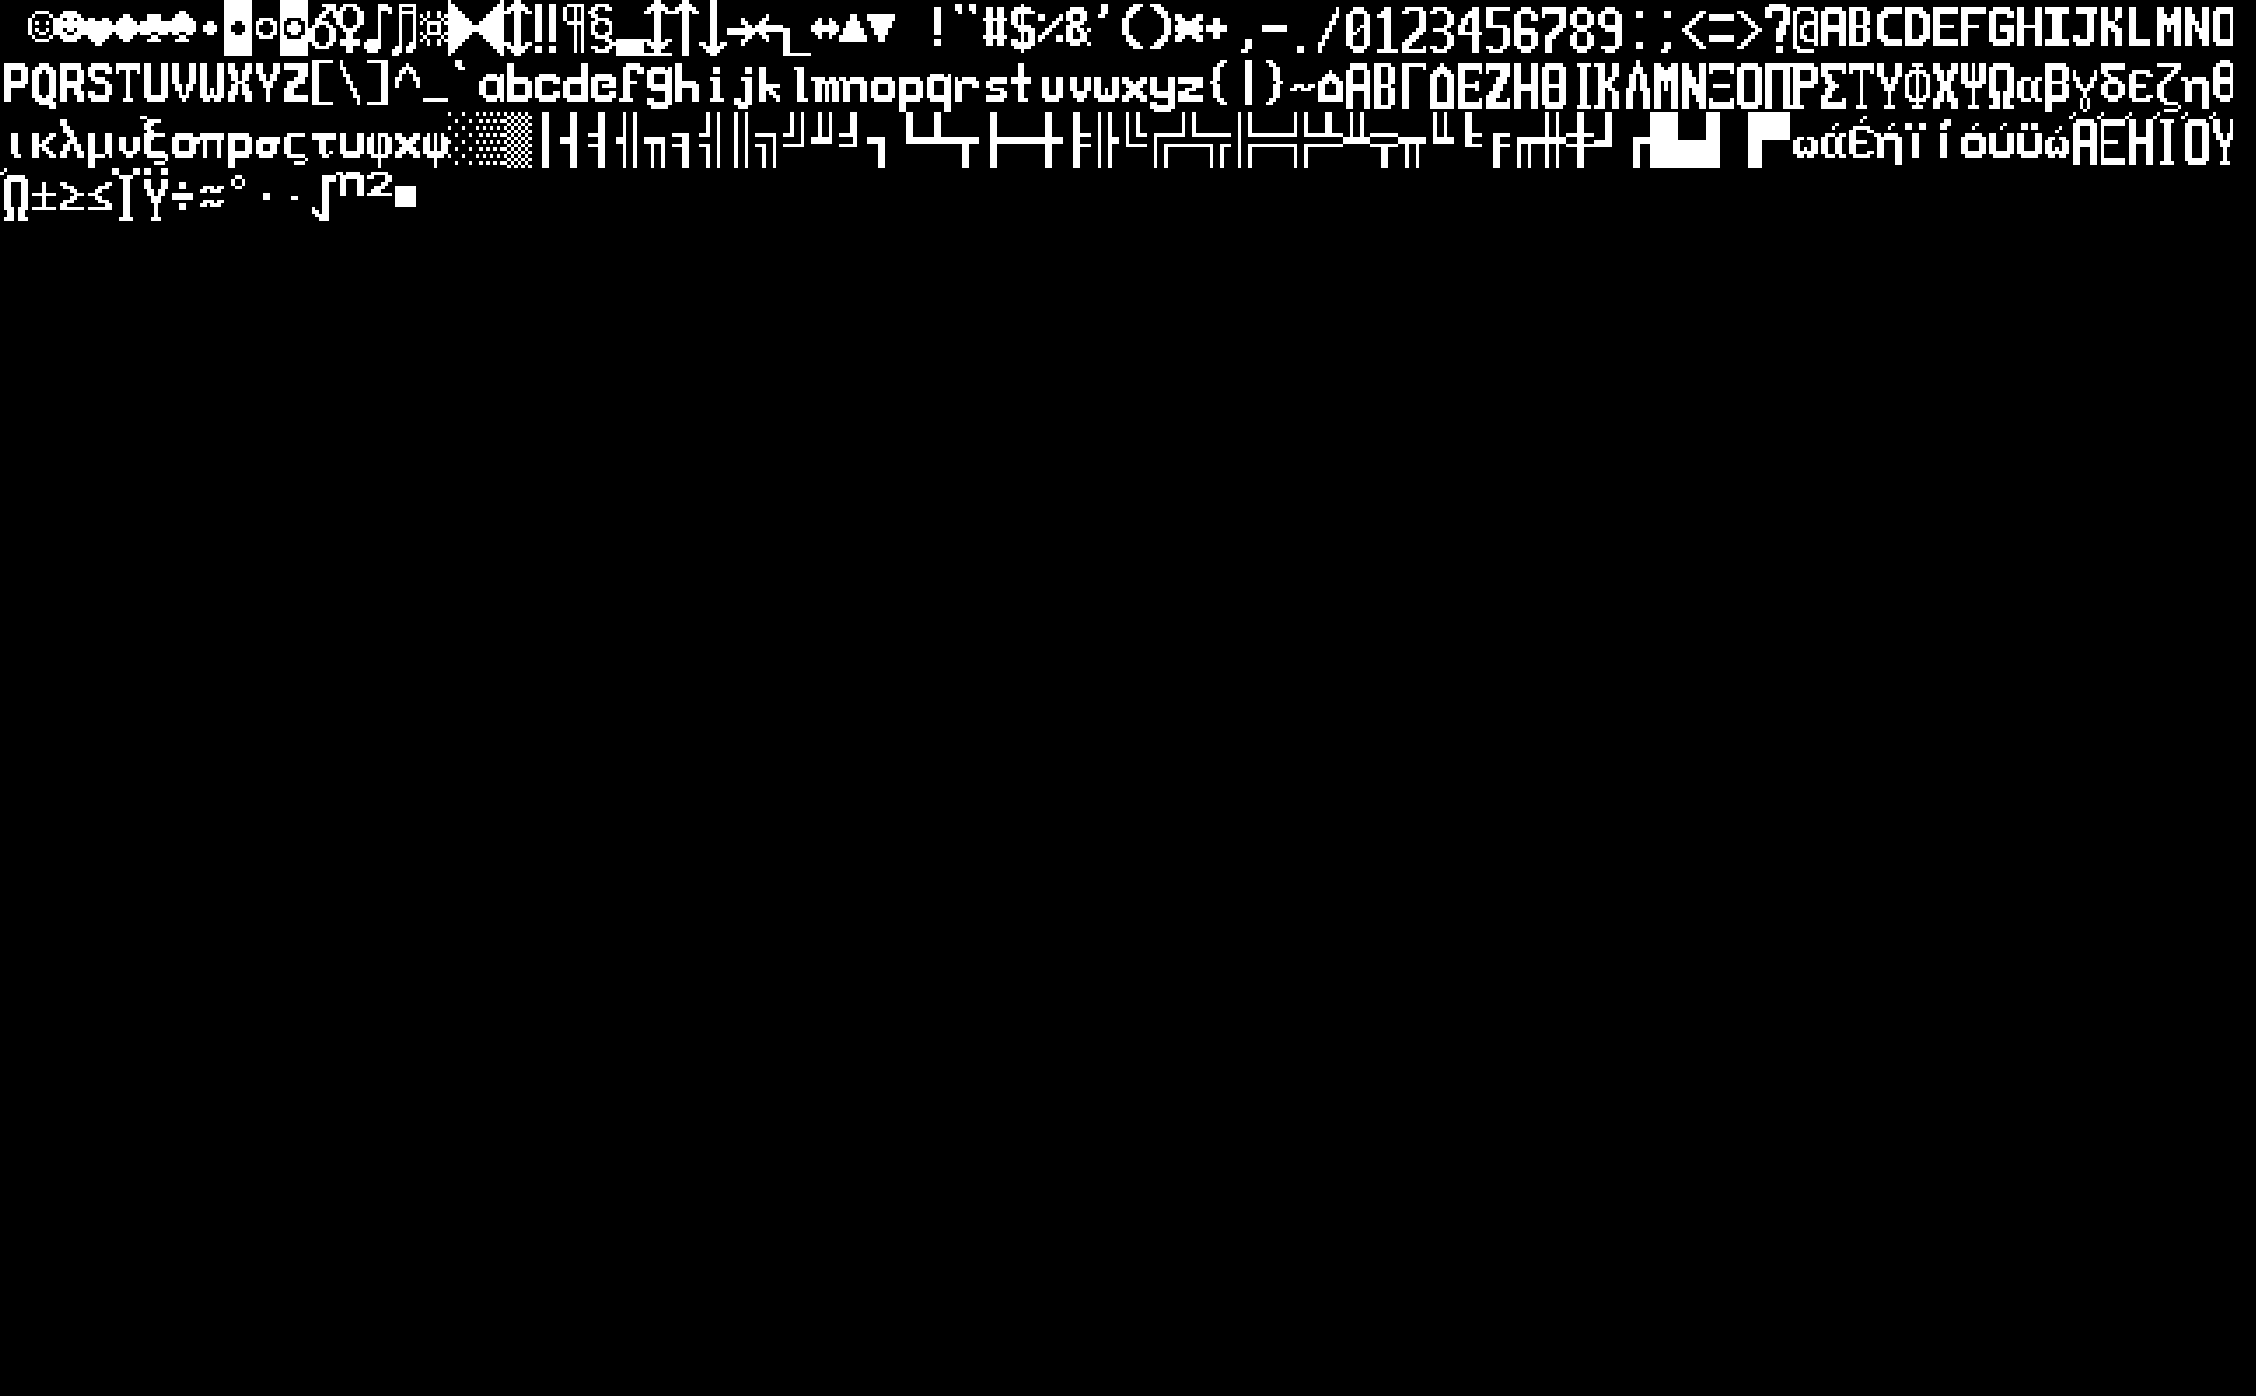
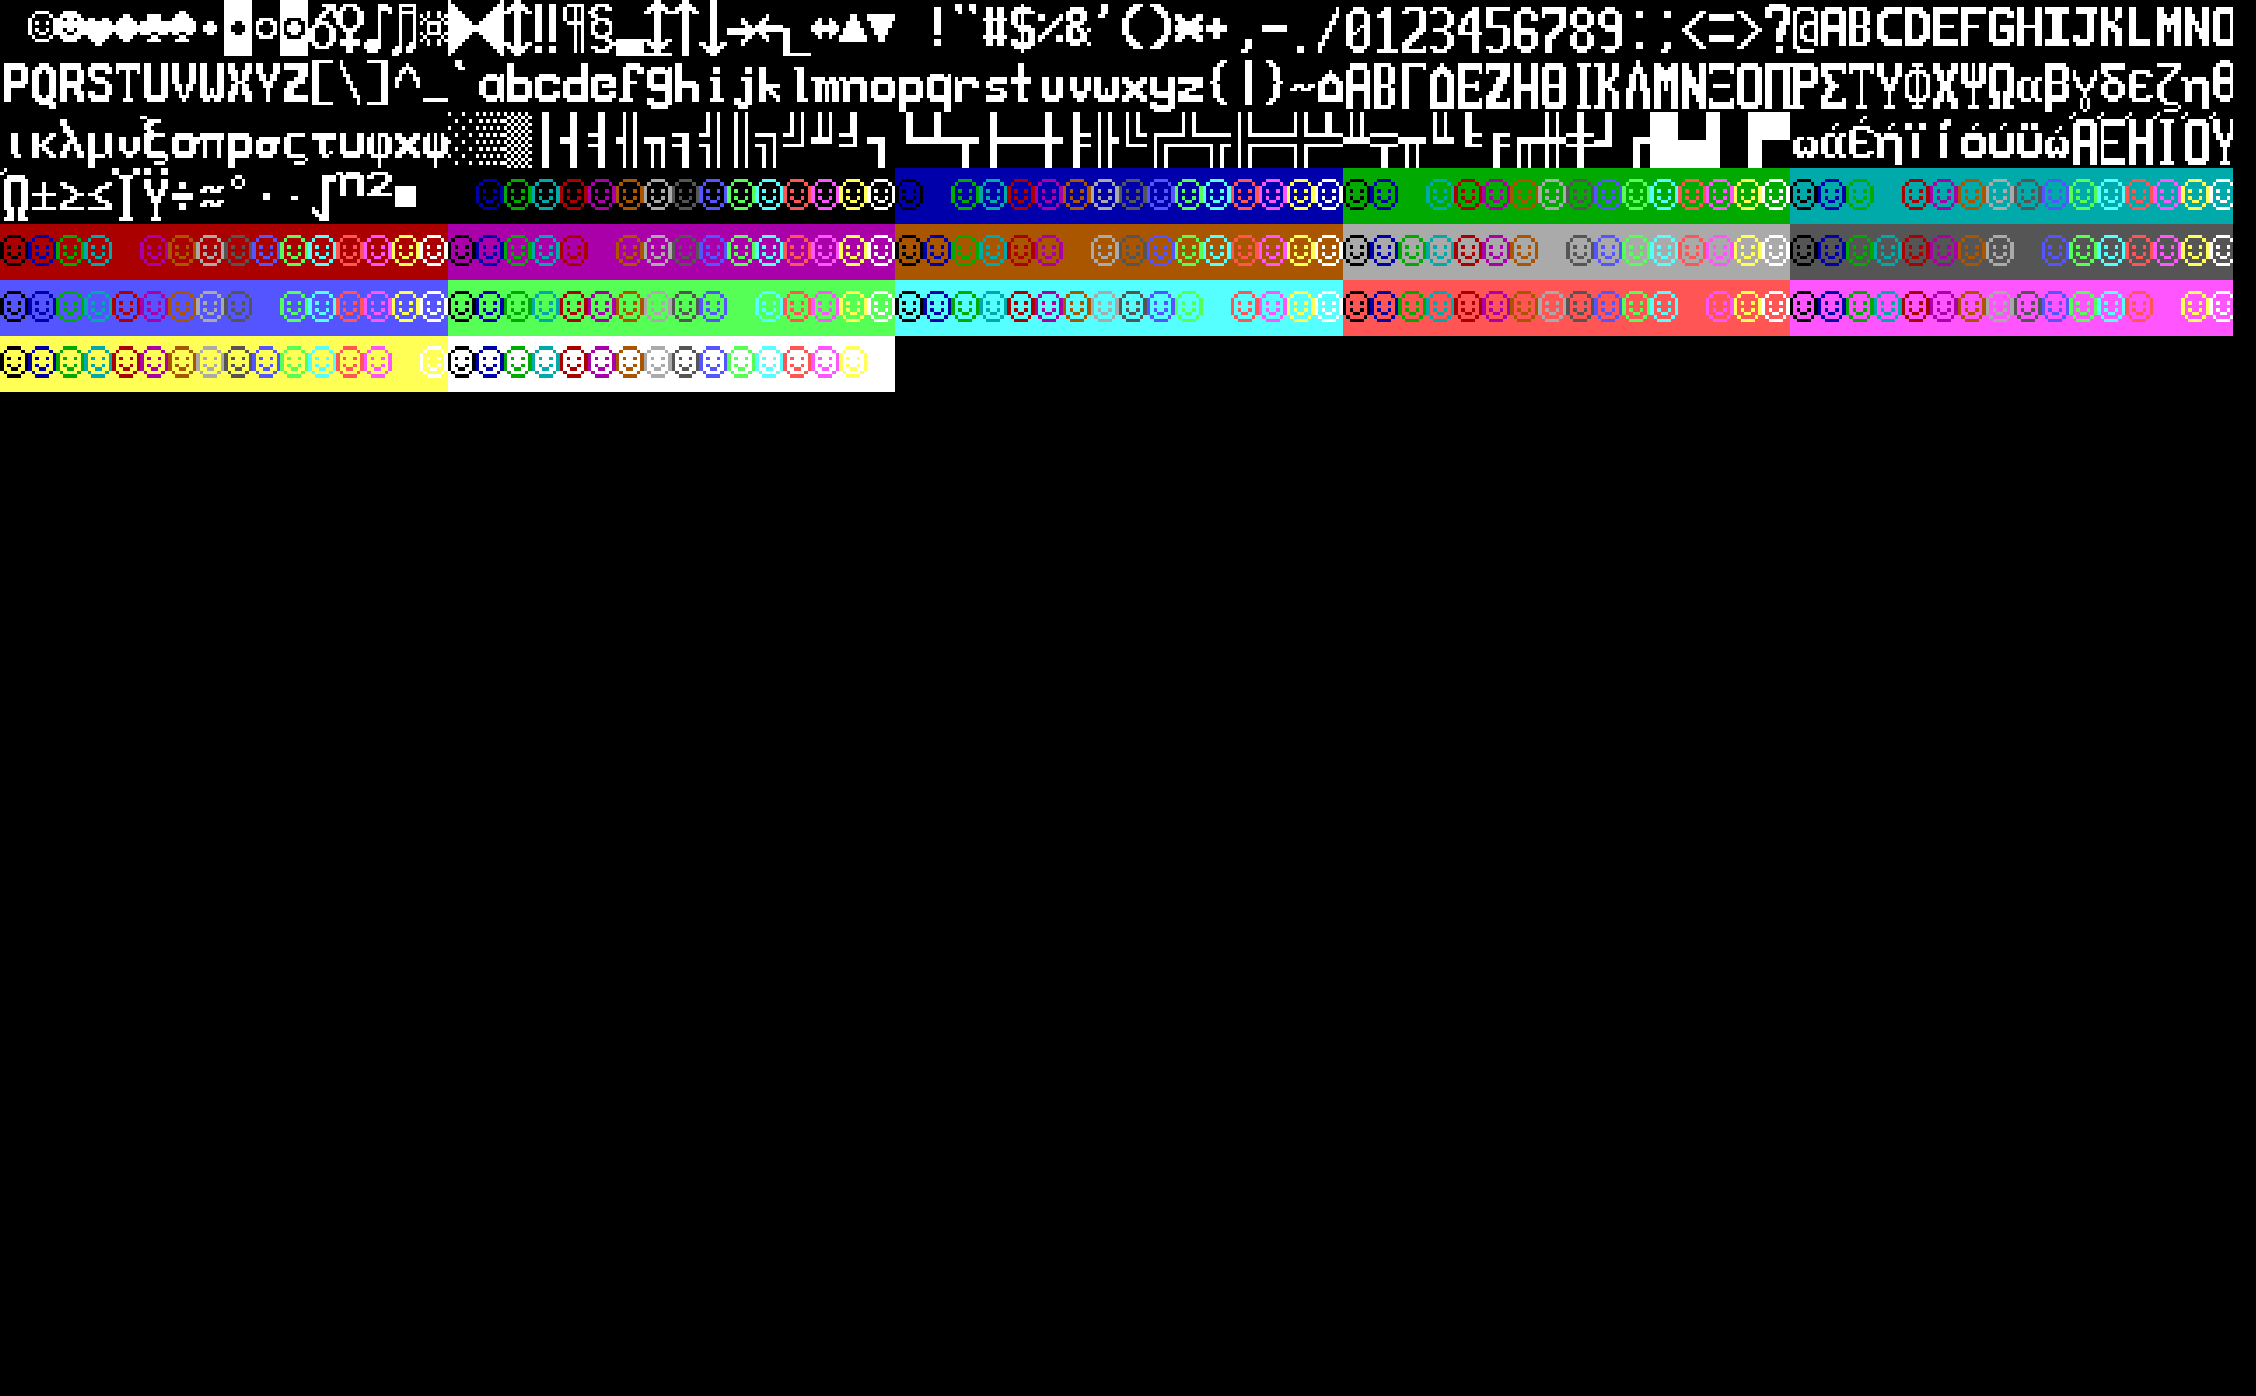
better CPU usage and color showcase

Changed region(s): [[0.0, 0.1232, 0.9929, 0.308]]

diff --git a/src/emulator/display.rs b/src/emulator/display.rs
@@ -1,4 +1,6 @@
-use std::pin::Pin;
+use std::sync::atomic::Ordering;
+use std::sync::Arc;
+use std::{pin::Pin, sync::atomic::AtomicBool};
 use std::str::FromStr;
 
 use async_std::task::JoinHandle;
@@ -31,12 +33,14 @@ const COLORS: [u32; 16] = [
 pub struct TextBuffer {
     chars: Pin<Box<[u8; 1 << 11]>>,
     modifiers: Pin<Box<[u8; 1 << 11]>>,
+    modified: Arc<AtomicBool>,
     handle: JoinHandle<()>,
 }
 
-struct BufferPtr{
+struct BufferPtr {
     chars: *const [u8; 1 << 11],
     modifiers: *const [u8; 1 << 11],
+    modified: Arc<AtomicBool>,
 }
 
 unsafe impl Send for BufferPtr {}
@@ -45,13 +49,15 @@ impl TextBuffer {
     pub fn spawn() -> TextBuffer {
         let chars = Box::pin([0; 1 << 11]);
         let modifiers = Box::pin([0; 1 << 11]);
+        let modified = Arc::new(AtomicBool::new(true));
 
         let handle = async_std::task::spawn(run_handle(BufferPtr{
             chars: &*chars,
             modifiers: &*modifiers,
+            modified: modified.clone(),
         }));
 
-        TextBuffer { chars, modifiers, handle }
+        TextBuffer { chars, modifiers, modified, handle }
     }
 
     pub fn get(&self, addr: u16) -> u8 {
@@ -65,7 +71,7 @@ impl TextBuffer {
     }
 
     pub fn set(&mut self, addr: u16, data: u8) {
-        println!("setting {addr} to {data}");
+        self.modified.store(true, Ordering::Relaxed);
 
         if addr % 2 == 0 {
             let sub_index = (addr >> 1) as usize;
@@ -90,7 +96,7 @@ async fn run_handle(buffer: BufferPtr) {
     
     let mut window =
         minifb::Window::new("f8ful", WIDTH, HEIGHT, opts).expect("should be able to create window");
-    // match the VGA standard
+    // the actual VGA standard is 75, but this function is very resource intensive and should not run constantly
     window.set_target_fps(75);
     if let Some(icon) = get_icon() {
         window.set_icon(icon);
@@ -99,35 +105,39 @@ async fn run_handle(buffer: BufferPtr) {
     let mut fb = [0x00000000; WIDTH * HEIGHT];
 
     while window.is_open() {
-        for y in 0..HEIGHT {
-            for x in 0..WIDTH {
-                let font_x = x % 8;
-                let font_y = y % 16;
+        if buffer.modified.load(Ordering::Relaxed) {
+            buffer.modified.store(false, Ordering::Relaxed);
+            for y in 0..HEIGHT {
+                for x in 0..WIDTH {
+                    let font_x = x % 8;
+                    let font_y = y % 16;
 
-                let char_x = x / 8;
-                let char_y = y / 16;
-                let char_idx = char_x + char_y * WIDTH / 8;
-                let (character, modifier) = unsafe {(
-                    (*buffer.chars)[char_idx], 
-                    (*buffer.modifiers)[char_idx]
-                )};
+                    let char_x = x / 8;
+                    let char_y = y / 16;
+                    let char_idx = char_x + char_y * WIDTH / 8;
+                    let (character, modifier) = unsafe {(
+                        (*buffer.chars)[char_idx], 
+                        (*buffer.modifiers)[char_idx]
+                    )};
 
-                let font_addr = ((character as usize) << 4) + font_y;
-                let lit = FONT[font_addr] & (1 << (7 - font_x)) > 0;
+                    let font_addr = ((character as usize) << 4) + font_y;
+                    let lit = FONT[font_addr] & (1 << (7 - font_x)) > 0;
 
-                // This part isn't part of the actual CPU,
-                // the real value will be transmitted via VGA instead of stored.
-                let fg = COLORS[(modifier & 0xf) as usize];
-                let bg = COLORS[(modifier >> 4) as usize];
-                fb[x + y * WIDTH] = if lit { fg } else { bg };
+                    // This part isn't part of the actual CPU,
+                    // the real value will be transmitted via VGA instead of stored.
+                    let fg = COLORS[(modifier & 0xf) as usize];
+                    let bg = COLORS[(modifier >> 4) as usize];
+                    fb[x + y * WIDTH] = if lit { fg } else { bg };
+                }
             }
-        }
 
-        window
-            .update_with_buffer(&fb, WIDTH, HEIGHT)
-            .expect("unable to write to window");
+            window
+                .update_with_buffer(&fb, WIDTH, HEIGHT)
+                .expect("unable to write to window");
+        } else {
+            window.update();
+        }
     }
-    
 }
 
 fn get_icon() -> Option<Icon> {

diff --git a/src/emulator.rs b/src/emulator.rs
@@ -1124,7 +1124,7 @@ pub async fn emulate(mut args: EmulatorArgs) -> Result<(), EmulatorError> {
                 state.halt();
             }
         } else {
-            async_std::task::sleep(Duration::from_millis(1)).await;
+            async_std::task::sleep(Duration::from_millis(10)).await;
         }
     }
 
